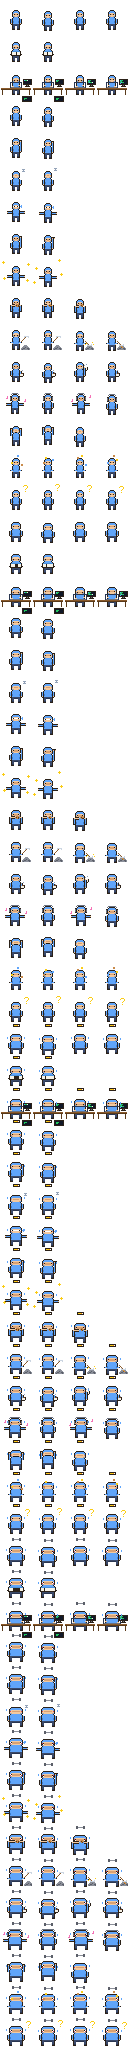
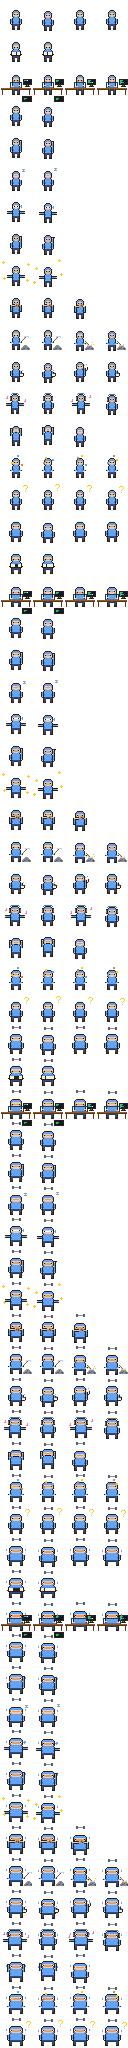
Dumbbell only at fat level 2, sweat and blush added at level 3

diff --git a/tools/gen_sprites.py b/tools/gen_sprites.py
@@ -4,8 +4,7 @@
 Output: Sources/ClaudeBuddy/Resources/buddy.png (main) and buddy_1..buddy_4.png (tinted clones).
 Sheet layout: 32x32 px frames, 4 columns, one animation per row (unused frames stay empty).
 Rows come in FAT_LEVELS blocks of 16: block 0 is the normal body, each further block is a wider one
-(used as the agent's context window fills up; level 2 is strained: blush, temple drops and a load gauge,
-level 3 overheated: dizzy eyes, a heavy dumbbell over the head).
+(used as the agent's context window fills up; level 2 is strained: a heavy dumbbell over the head, level 3 overheated: dumbbell, sweat, blush and dizzy eyes).
 Within a block the row order must match `Pose` in Sources/ClaudeBuddy/Model.swift:
   0 idle  1 read  2 type(desk)  3 run  4 wait  5 sleep  6 oops  7 wave  8 spawn  9 eat  10 mine
   11 coffee  12 dance  13 stretch  14 juggle  15 think
@@ -182,28 +181,23 @@ class Body:
         self.last_x_off = x_off
 
     def load_overlay(self, f, i):
-        """Heavy-load cues added to frame `i` of every row. Strained: blush, a drop on each temple
-        and a load gauge. Overheated: hotter blush, dizzy eyes, a heavy dumbbell wobbling over the head."""
+        """Heavy-load cues added to frame `i` of every row. Strained: a heavy dumbbell over the head.
+        Overheated: the dumbbell plus blush, a drop on each temple and dizzy eyes (see draw())."""
         if self.condition == 'fine': return
         hot = self.condition == 'overheated'
         xo = getattr(self, 'last_x_off', 0)
         x0, W = self.ox + xo, self.W
         cx = x0 + W // 2
+        # a heavy dumbbell wobbling above the head
+        bell = ["RR.....RR", "RRrrrrrRR", "RR.....RR"]
+        f.blit(bell, cx - 4, OY - 8 + (0, 1)[i % 2])
+        if not hot: return
         # flushed cheeks, just outside the eyes
-        for x in (x0 + 3, x0 + W - 4): f.put(x, OY + 5, 'F' if hot else 'f')
+        for x in (x0 + 3, x0 + W - 4): f.put(x, OY + 5, 'F')
         # one drop on each temple, bobbing
         for x in (x0 - 1, x0 + W):
             y = OY + 3 + i % 2
             f.put(x, y, 'd'); f.put(x, y + 1, 'd')
-        if hot:
-            # a heavy dumbbell wobbling above the head
-            bell = ["RR.....RR", "RRrrrrrRR", "RR.....RR"]
-            f.blit(bell, cx - 4, OY - 8 + (0, 1)[i % 2])
-        else:
-            # load gauge above the head
-            gx, gy = cx - 3, OY - 10
-            f.blit(["ooooooo", "o.....o", "ooooooo"], gx, gy)
-            for k in range(4): f.put(gx + 1 + k, gy + 1, 'G' if k == 3 else 'y')
 
     def book(self, f, flip):
         art = ["obbbbbbbbo", "oBBBBoBBBo", "oBBBBoBBBo", "oBBBBoBBBo", "oooooooooo"] if not flip else \

diff --git a/README.md b/README.md
@@ -63,7 +63,7 @@ Events carry `agent_id`, so tool calls made *inside* a subagent animate that clo
 `.jsonl` (or the subagent's file under `<session>/subagents/`) and takes the latest assistant turn's
 input + cache tokens as the context in use. The sheet has four body widths; the character steps up one
 size for every 25 % of the window used, and the label shows the count, e.g. `shack-products · 115k`.
-Past 50 % the character flushes and shows a load gauge above its head; past 75 % it is dizzy with a heavy dumbbell wobbling over its head.
+Past 50 % a heavy dumbbell wobbles over the character's head; past 75 % it is also sweating, flushed and dizzy.
 The window size (200k or 1M) is a toggle in the menu bar.
 Multiple concurrent Claude sessions each get their own character (labelled with the project folder).
 
